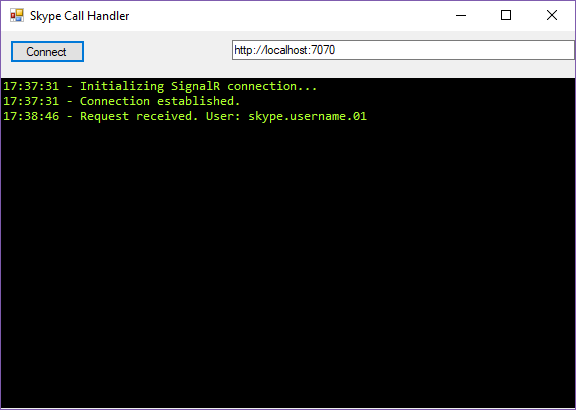
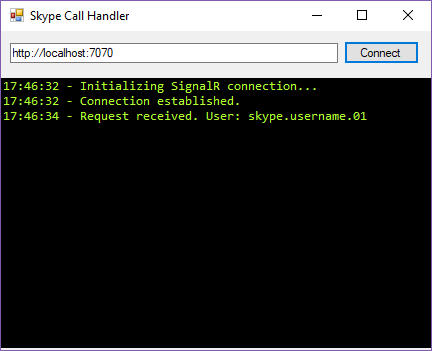
Update screenshots

Changed region(s): [[0.0, 0.0, 1.0, 1.0], [0.7824, 0.0, 0.9028, 0.057]]

diff --git a/src/SkypeCallHandler/Main.Designer.cs b/src/SkypeCallHandler/Main.Designer.cs
@@ -51,7 +51,8 @@
             // 
             // btnConnect
             // 
-            this.btnConnect.Location = new System.Drawing.Point(9, 9);
+            this.btnConnect.Anchor = ((System.Windows.Forms.AnchorStyles)((System.Windows.Forms.AnchorStyles.Top | System.Windows.Forms.AnchorStyles.Right)));
+            this.btnConnect.Location = new System.Drawing.Point(487, 10);
             this.btnConnect.Name = "btnConnect";
             this.btnConnect.Size = new System.Drawing.Size(75, 23);
             this.btnConnect.TabIndex = 1;
@@ -63,9 +64,9 @@
             // 
             this.txtUrl.Anchor = ((System.Windows.Forms.AnchorStyles)(((System.Windows.Forms.AnchorStyles.Top | System.Windows.Forms.AnchorStyles.Left) 
             | System.Windows.Forms.AnchorStyles.Right)));
-            this.txtUrl.Location = new System.Drawing.Point(231, 9);
+            this.txtUrl.Location = new System.Drawing.Point(9, 12);
             this.txtUrl.Name = "txtUrl";
-            this.txtUrl.Size = new System.Drawing.Size(343, 20);
+            this.txtUrl.Size = new System.Drawing.Size(472, 20);
             this.txtUrl.TabIndex = 2;
             this.txtUrl.Text = "http://localhost:7070";
             // 
